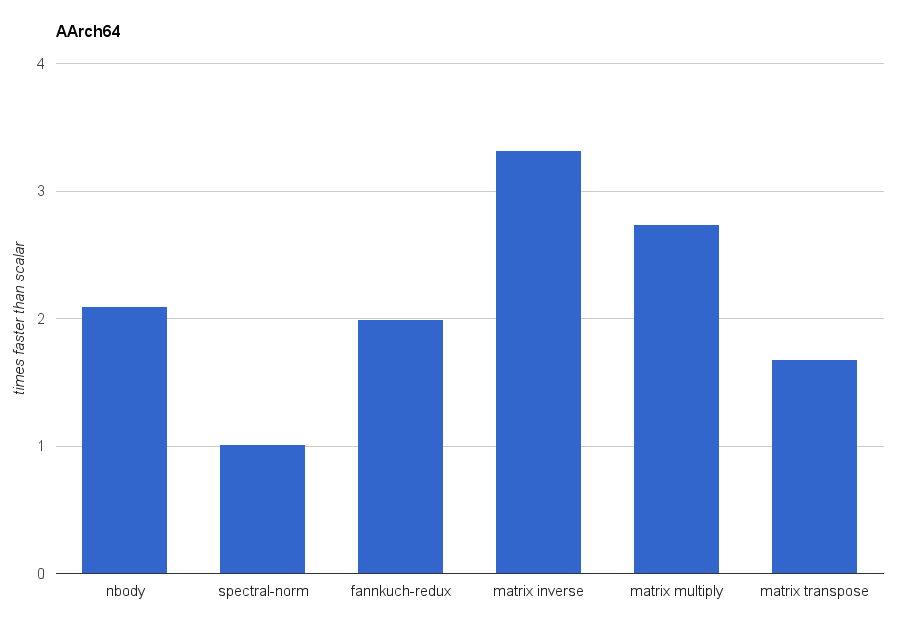
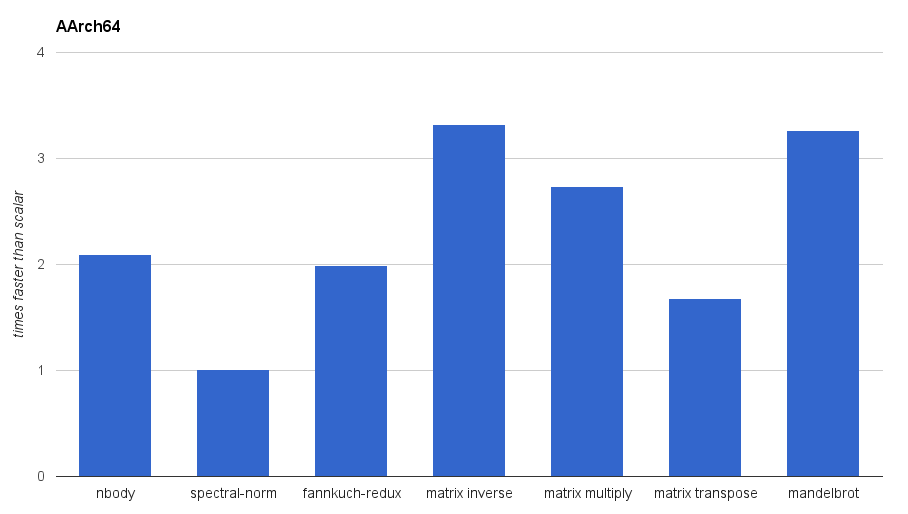
Updates for SIMD in Rust.

Changed region(s): [[0.0617, 0.2179, 0.9559, 0.965], [0.0, 0.3735, 0.0308, 0.6537], [0.0617, 0.0311, 0.1233, 0.0623]]

diff --git a/_posts/2015-08-20-simd-in-rust.md b/_posts/2015-08-20-simd-in-rust.md
@@ -14,9 +14,56 @@ implementation just landed as [#27169][PR27169]), and an
 [in-progress library][simdcrate] that provides a mostly-safe but
 low-level interface to that core functionality.
 
-My work is aiming to be the groundwork for things to be built-on,
-enabling more interesting functionality by providing the necessary
-tools, not being that goal functionality itself.
+It's still simple to use, the follow are kernels for rendering
+[the Mandelbrot set][mandelbrot], one scalar, one with explicit
+vectorisation, and both similar:
+
+{% highlight rust linenos=table %}
+// Scalar!
+// compute the escape time for the point `c_x + i c_y`
+fn naive(c_x: f32, c_y: f32, max_iter: u32) -> u32 {
+    let mut x = c_x;
+    let mut y = c_y;
+    let mut count = 0;
+    while count < max_iter {
+        let xy = x * y;
+        let xx = x * x;
+        let yy = y * y;
+        let sum = xx + yy;
+        if sum > 4.0 {
+            break
+        }
+        count += 1;
+        x = xx - yy + c_x;
+        y = xy * 2.0 + c_y;
+    }
+    count
+}
+
+// SIMD!
+// compute the escape time for the four point `c_x + i c_y` at once
+fn mandelbrot_vector(c_x: f32x4, c_y: f32x4, max_iter: u32) -> u32x4 {
+    let mut x = c_x;
+    let mut y = c_y;
+
+    let mut count = u32x4::splat(0);
+    for _ in 0..max_iter {
+        let xy = x * y;
+        let xx = x * x;
+        let yy = y * y;
+        let sum = xx + yy;
+        let mask = sum.lt(f32x4::splat(4.0));
+
+        if !mask.any() { break }
+        count = count + mask.to_i().select(u32x4::splat(1),
+                                           u32x4::splat(0));
+
+        x = xx - yy + c_x;
+        y = xy + xy + c_y;
+    }
+    count
+}
+{% endhighlight %}
 
 [SIMD]: https://en.wikipedia.org/wiki/SIMD
 [Rust]: https://www.rust-lang.org/
@@ -34,8 +81,9 @@ tools, not being that goal functionality itself.
 [simd-benches]: https://github.com/huonw/simd/tree/master/benches
 [simd-examples]: https://github.com/huonw/simd/tree/master/examples
 [cargo1137]: https://github.com/rust-lang/cargo/issues/1137
+[mandelbrot]: https://en.wikipedia.org/wiki/Mandelbrot_set
 
-## Why care?
+## SIMD?
 
 SIMD (Single Instruction Multiple Data) is a way to get data
 parallelism on a lot of modern hardware: CPUs have instructions that
@@ -46,71 +94,28 @@ respectively) in parallel, by operating on two 128-bit registers.
 
 {% include image.html src="vector.png" %}
 
-Parallelism is the key word here: clock speeds have mostly stabilised
-on modern CPUs and we're no longer getting the "automatic" performance
-gains that have historically occurred with CPU upgrades. Instead, CPU
-manufacturers are throwing extra die-space/power at parallelism: more
-cores, more (integrated) GPU[^gpu], and more SIMD. Hence, applications that
-care about performance and want to exploit every inch of the
-available hardware need to care about SIMD.
-
-[^gpu]: GPU programming is sometimes described a form of SIMD too (or
-        SIMT: Single Instruction Multiple Threads), so, to be clear:
-        when I say "SIMD" I mean "SIMD on the CPU".
-
-Rust is a pretty good fit for many of the headline examples of such
+Rust is a good fit for many of the headline examples of such
 applications, which are traditionally written in C/C++ (or Fortran,
-for the last):
+for the last),
 
 - media codecs (audio, video, images)
 - games/things that do a lot of 3D graphics manipulation
 - numerical software (data processing (big or not), simulations etc.)
 
-The general goal with these is to push as much onto the GPU as
-possible, however this can be difficult, and is not a panacea. One
-difficulty is that the the nature of GPUs means they are a restrictive
-programming model (even compared to SIMD) so some workloads are
-fundamentally unsuited to them, by, for example, not being able to
-saturate all execution units: GPUs are generally several times slower
-than CPUs at straight-line code, so exploiting their parallelism is
-important.
+Improved SIMD support will enable high performance Rust code: if you
+want to exploit the hardware to its limit, you need to care about
+SIMD.
 
-## SIMD is like an onion
+## Common vs. Platform-specific
 
-Layers!
+SIMD is entwined with the CPU it is running on, but still there's a
+common core of operations that is widely supported by most
+architectures with SIMD operations. On top of that foundation, there
+is a variety of useful instructions that aren't found everywhere.
 
-### Long vs. Short
-
-There's two broad classifications of vector operations:
-
-- short vector, computing with vectors of (short) fixed length,
-  e.g. doing 4 float additions at once (`addps`)
-- long vector, computing with vectors of arbitrary length
-  e.g. computing the sum of some long list of numbers (`numpy.sum`)
-
-Everything one can do with short-vectors one can also do with long
-vectors, but the former is still important: it's what CPUs work with
-directly and hence has the most control. In fact, if you look inside a
-long vector library you're likely to find short vector manipulations.
-
-Long vectors are generally more removed from the machine, with large
-dynamic allocations and libraries which one usually relies on to make
-the right choice for achieving an operation as fast as possible, while
-the short vectors are often used explicitly in places that care about
-the machine code down to the level of individual instructions.
-
-I'm only focusing on the hardware, and so only the short-vector area.
-
-### Common vs. Platform-specific
-
-That's not the only layering: there's a common core of operations that
-is widely supported by most architectures with SIMD operations, and
-then there's a variety of instructions that aren't found everywhere.
-
-The compiler doesn't care about this, but my `simd` crate does: it
-tries to provide a consistent API for the cross-platform
-functionality, and then opt-ins for platform specific things. The
-cross-platform API is based on the
+My `simd` crate tries to provide a consistent API for the
+cross-platform functionality, and then opt-ins for platform specific
+things. The cross-platform API is based on the
 [work on SIMD in JavaScript][simd.js]: they've abstracted out a basic
 set of operations that generally work efficiently, or are extremely
 useful, everywhere. It definitely doesn't cover everything, but it
@@ -163,6 +168,7 @@ C/C++:
     - inversion
     - multiplication
     - transposition
+- the Mandelbrot example above
 - some benchmarks from [the Benchmark Game][bgame], where the fastest
   programs use explicit SIMD:
     - [nbody] (fastest on single-core x86-64 is C)
